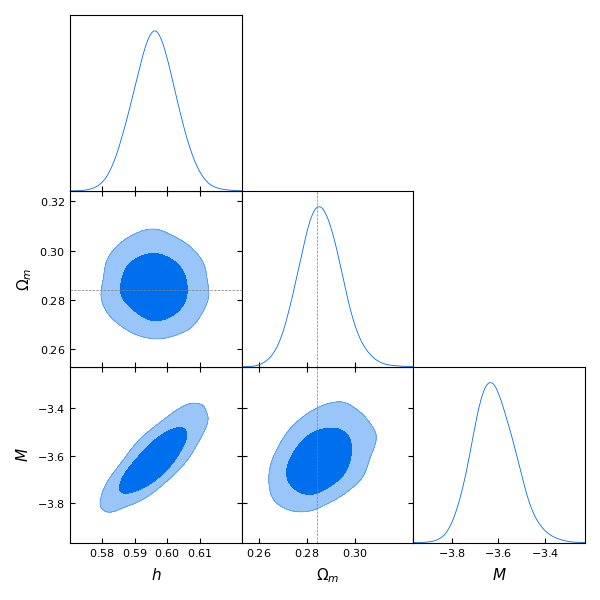
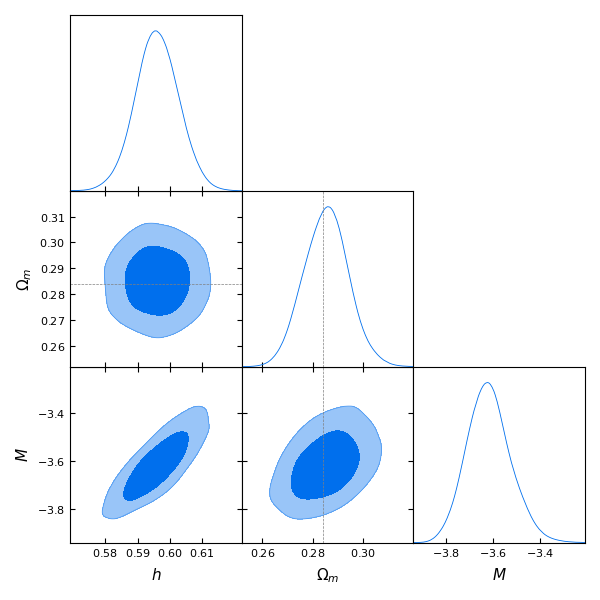
added proper GWTC-lowerror and SNIa-binned

diff --git a/output/FQ_GWTC-lowerror_SNIa-binned/1sigma.tex b/output/FQ_GWTC-lowerror_SNIa-binned/1sigma.tex
@@ -2,10 +2,10 @@
 
  Parameter &  68\% limits\\
 \hline
-{\boldmath$h              $} & $0.5961\pm 0.0067          $\\
+{\boldmath$h              $} & $0.5960\pm 0.0067          $\\
 
-{\boldmath$\Omega_m       $} & $0.2856\pm 0.0090          $\\
+{\boldmath$\Omega_m       $} & $0.2853\pm 0.0089          $\\
 
-{\boldmath$M              $} & $-3.617^{+0.085}_{-0.098}  $\\
+{\boldmath$M              $} & $-3.619^{+0.083}_{-0.10}   $\\
 \hline
 \end{tabular}

diff --git a/output/FQ_GWTC-lowerror_SNIa-binned/2sigma.tex b/output/FQ_GWTC-lowerror_SNIa-binned/2sigma.tex
@@ -4,8 +4,8 @@
 \hline
 {\boldmath$h              $} & $0.596^{+0.013}_{-0.013}   $\\
 
-{\boldmath$\Omega_m       $} & $0.286^{+0.018}_{-0.017}   $\\
+{\boldmath$\Omega_m       $} & $0.285^{+0.018}_{-0.017}   $\\
 
-{\boldmath$M              $} & $-3.62^{+0.18}_{-0.18}     $\\
+{\boldmath$M              $} & $-3.62^{+0.20}_{-0.18}     $\\
 \hline
 \end{tabular}
